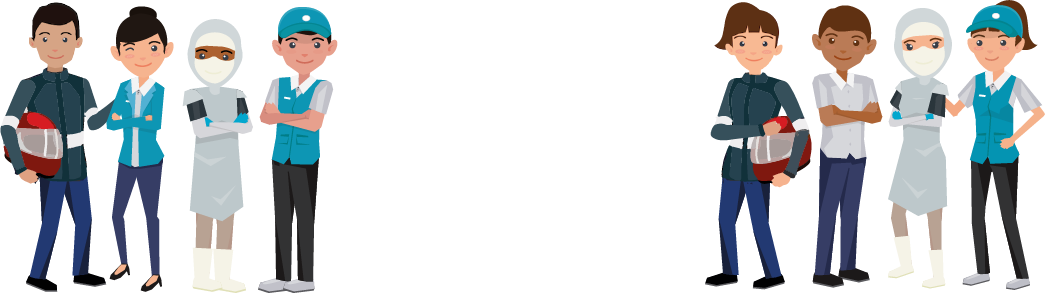
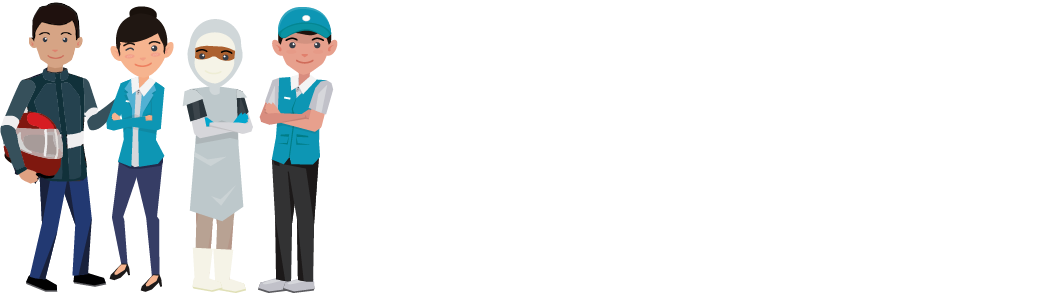
correccion del login

Changed region(s): [[0.6737, 0.0, 1.0, 1.0]]

diff --git a/assets/login/css/style.css b/assets/login/css/style.css
@@ -111,14 +111,21 @@ margin-left: -17px;
     height : 605px;
     background:url(../images/face1.png) repeat-x  50% 0%;/***/
 }
-
-#personas_mc{
+#personas1_mc{
     position:absolute;
     margin-left : -3px;
     margin-top : 342px;
     width : 100%;
     height : 414px;
     background:url(../images/personajes.png) no-repeat  50% 0%;/***/
+}
+#personas2_mc{
+    position:absolute;
+    margin-left : -3px;
+    margin-top : 342px;
+    width : 100%;
+    height : 414px;
+    background:url(../images/personajes2.png) no-repeat  50% 0%;/***/
 }
 #nubes1_mc{
     margin-left : -282px;
@@ -288,19 +295,19 @@ margin-left: -17px;
 
 
 .nube_anim{
-  animation: ins_nubeanim linear 20s;
+  animation: ins_nubeanim linear 50s;
   animation-iteration-count: infinite;
   transform-origin: 50% 50%;
-  -webkit-animation: ins_nubeanim linear 20s;
+  -webkit-animation: ins_nubeanim linear 50s;
   -webkit-animation-iteration-count: infinite;
   -webkit-transform-origin: 50% 50%;
-  -moz-animation: ins_nubeanim linear 20s;
+  -moz-animation: ins_nubeanim linear 50s;
   -moz-animation-iteration-count: infinite;
   -moz-transform-origin: 50% 50%;
-  -o-animation: ins_nubeanim linear 20s;
+  -o-animation: ins_nubeanim linear 50s;
   -o-animation-iteration-count: infinite;
   -o-transform-origin: 50% 50%;
-  -ms-animation: ins_nubeanim linear 20s;
+  -ms-animation: ins_nubeanim linear 50s;
   -ms-animation-iteration-count: infinite;
   -ms-transform-origin: 50% 50%;
 }
@@ -352,65 +359,65 @@ margin-left: -17px;
 
 
 .nube_anim2{
-  animation: ins_nubeanim2 linear 30s;
+  animation: ins_nubeanim2 linear 50s;
   animation-iteration-count: infinite;
   transform-origin: 50% 50%;
-  -webkit-animation: ins_nubeanim2 linear 30s;
+  -webkit-animation: ins_nubeanim2 linear 50s;
   -webkit-animation-iteration-count: infinite;
   -webkit-transform-origin: 50% 50%;
-  -moz-animation: ins_nubeanim2 linear 30s;
+  -moz-animation: ins_nubeanim2 linear 50s;
   -moz-animation-iteration-count: infinite;
   -moz-transform-origin: 50% 50%;
-  -o-animation: ins_nubeanim2 linear 30s;
+  -o-animation: ins_nubeanim2 linear 50s;
   -o-animation-iteration-count: infinite;
   -o-transform-origin: 50% 50%;
-  -ms-animation: ins_nubeanim2 linear 30s;
+  -ms-animation: ins_nubeanim2 linear 50s;
   -ms-animation-iteration-count: infinite;
   -ms-transform-origin: 50% 50%;
 }
 
 @keyframes ins_nubeanim2{
   0% {
-    transform:  translate(1000px,0px)  ;
+    transform:  translate(2000px,0px)  ;
   }
   100% {
-    transform:  translate(-2000px,0px)  ;
+    transform:  translate(-4000px,0px)  ;
   }
 }
 
 @-moz-keyframes ins_nubeanim2{
   0% {
-    -moz-transform:  translate(1000px,0px)  ;
+    -moz-transform:  translate(2000px,0px)  ;
   }
   100% {
-    -moz-transform:  translate(-2000px,0px)  ;
+    -moz-transform:  translate(-4000px,0px)  ;
   }
 }
 
 @-webkit-keyframes ins_nubeanim2 {
   0% {
-    -webkit-transform:  translate(1000px,0px)  ;
+    -webkit-transform:  translate(2000px,0px)  ;
   }
   100% {
-    -webkit-transform:  translate(-2000px,0px)  ;
+    -webkit-transform:  translate(-4000px,0px)  ;
   }
 }
 
 @-o-keyframes ins_nubeanim2 {
   0% {
-    -o-transform:  translate(1000px,0px)  ;
+    -o-transform:  translate(2000px,0px)  ;
   }
   100% {
-    -o-transform:  translate(-2000px,0px)  ;
+    -o-transform:  translate(-4000px,0px)  ;
   }
 }
 
 @-ms-keyframes ins_nubeanim2 {
 
   0% {
-    -ms-transform:  translate(1000px,0px)  ;
+    -ms-transform:  translate(2000px,0px)  ;
   }
   100% {
-    -ms-transform:  translate(-2000px,0px)  ;
+    -ms-transform:  translate(-4000px,0px)  ;
   }
 }

diff --git a/application/views/login.php b/application/views/login.php
@@ -35,7 +35,8 @@
                     <div data-depth-x="0.06" id="grass1_mc"></div>
                     <div data-depth="-0.1" id="grass2_mc"></div>
                     <div data-depth="0.2" id="grass3_mc"></div>
-                    <div data-depth="-0.1" id="personas_mc"></div>
+                    <div data-depth="-0.1" id="personas1_mc"></div>
+                    <div data-depth="0.1" id="personas2_mc"></div>
                 </div>
                 <div id="logo_mc" class="row"></div>
                 <div class="row">
